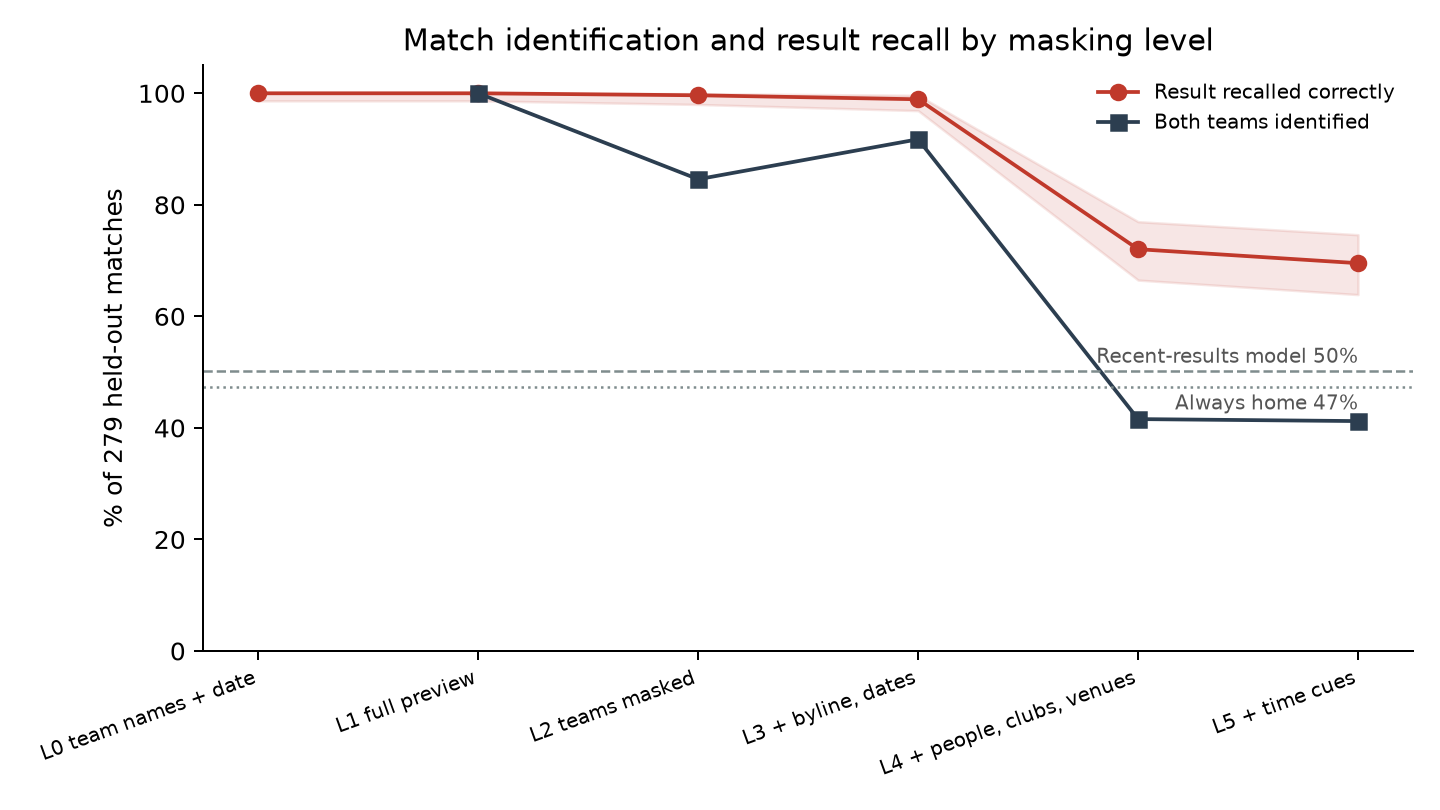
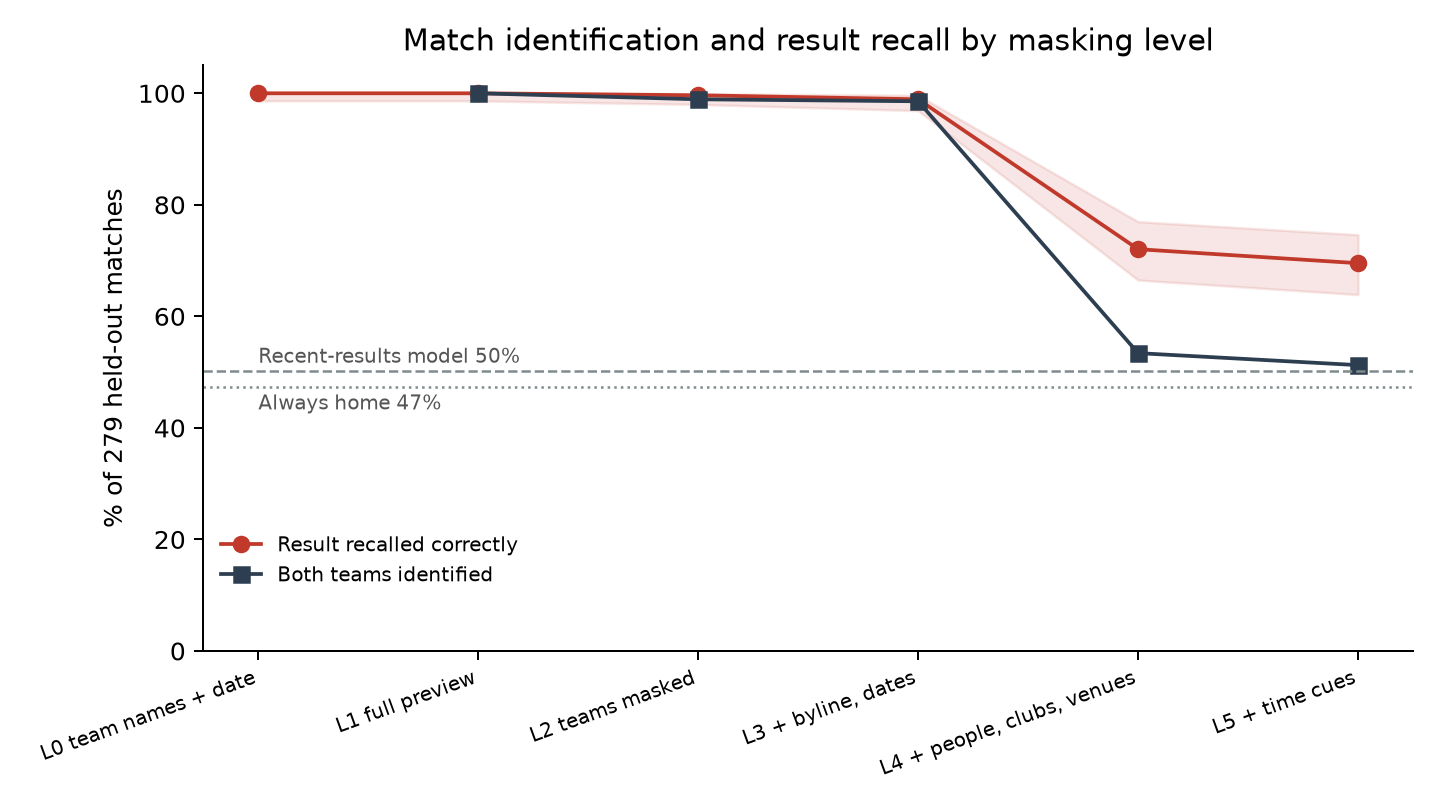
Fix club-name matching in leakage scorer; rescore saved answers

diff --git a/scripts/score_leakage.py b/scripts/score_leakage.py
@@ -41,8 +41,9 @@ LEVEL_LABELS = {
 
 
 def norm(name):
-    name = str(name).lower().replace('&', 'and')
-    name = re.sub(r'\b(fc|afc|the)\b', ' ', name)
+    name = str(name).lower().replace('&', 'and').replace('.', '')
+    # Formal names: "Arsenal Football Club", "Hull City Association Football Club", "Arsenal F.C."
+    name = re.sub(r'\b(association football club|football club|fc|afc|the)\b', ' ', name)
     return ' '.join(re.sub(r'[^a-z0-9 ]', ' ', name).split())
 
 
@@ -139,14 +140,14 @@ def main():
     ident = summary.both_teams_identified * 100
     ax.plot(x[ident.notna()], ident[ident.notna()], marker='s', color='#2c3e50', label='Both teams identified')
     ax.axhline(baseline_acc * 100, ls='--', color='#7f8c8d', lw=1)
-    ax.text(x[-1], baseline_acc * 100 + 1.5, f'Recent-results model {baseline_acc:.0%}', ha='right', fontsize=8, color='#555')
+    ax.text(x[0], baseline_acc * 100 + 1.5, f'Recent-results model {baseline_acc:.0%}', ha='left', fontsize=8, color='#555')
     ax.axhline(home_acc * 100, ls=':', color='#7f8c8d', lw=1)
-    ax.text(x[-1], home_acc * 100 - 4, f'Always home {home_acc:.0%}', ha='right', fontsize=8, color='#555')
+    ax.text(x[0], home_acc * 100 - 4, f'Always home {home_acc:.0%}', ha='left', fontsize=8, color='#555')
     ax.set_xticks(x, [LEVEL_LABELS.get(l, l) for l in summary.level], rotation=20, ha='right', fontsize=8)
     ax.set_ylim(0, 105)
     ax.set_ylabel('% of 279 held-out matches')
     ax.set_title('Match identification and result recall by masking level')
-    ax.legend(frameon=False, fontsize=8, loc='upper right')
+    ax.legend(frameon=False, fontsize=8, loc='lower left', bbox_to_anchor=(0, 0.08))
     ax.spines[['top', 'right']].set_visible(False)
     fig.tight_layout()
     fig.savefig(OUT / 'leakage_by_level.png', dpi=180)

diff --git a/reports/leakage/milestone2_results.md b/reports/leakage/milestone2_results.md
@@ -8,12 +8,12 @@ All tables use the saved output values as written. The probe asks the model to i
 
 | Level | n | Both teams identified | Season identified | Exact match identified | Result accuracy | Result accuracy 95% interval | Log loss | Result accuracy when identified | Result accuracy when not identified |
 | --- | --- | --- | --- | --- | --- | --- | --- | --- | --- |
-| L0 | 279 | — | — | — | 1.0 | [0.9864178395257275, 1.0] | — | — | — |
-| L1 | 279 | 1.0 | 1.0 | 1.0 | 1.0 | [0.9864178395257275, 1.0] | 0.02479976520637871 | 1.0 | — |
-| L2 | 279 | 0.8458781362007168 | 1.0 | 0.8458781362007168 | 0.996415770609319 | [0.9799797125550332, 0.9993670313468536] | 0.04500748982304585 | 1.0 | 0.9767441860465116 |
-| L3 | 279 | 0.9175627240143369 | 0.996415770609319 | 0.9175627240143369 | 0.989247311827957 | [0.968867981311279, 0.9963365713429273] | 0.06716569892300638 | 1.0 | 0.8695652173913043 |
-| L4 | 279 | 0.4157706093189964 | 0.5949820788530465 | 0.4121863799283154 | 0.7204301075268817 | [0.6650476975055243, 0.7698246833606567] | 0.6101909966413706 | 1.0 | 0.524390243902439 |
-| L5 | 279 | 0.4121863799283154 | 0.5591397849462365 | 0.4014336917562724 | 0.6953405017921147 | [0.638981560687777, 0.7463931508115215] | 0.6479047565076327 | 1.0 | 0.49101796407185627 |
+| L0 | 279 | — | — | — | 1.0 | [0.9864178395257276, 1.0] | — | — | — |
+| L1 | 279 | 1.0 | 1.0 | 1.0 | 1.0 | [0.9864178395257276, 1.0] | 0.0247997652063787 | 1.0 | — |
+| L2 | 279 | 0.989247311827957 | 1.0 | 0.989247311827957 | 0.996415770609319 | [0.9799797125550332, 0.9993670313468536] | 0.0450074898230458 | 1.0 | 0.6666666666666666 |
+| L3 | 279 | 0.985663082437276 | 0.996415770609319 | 0.985663082437276 | 0.989247311827957 | [0.968867981311279, 0.9963365713429272] | 0.0671656989230063 | 1.0 | 0.25 |
+| L4 | 279 | 0.5340501792114696 | 0.5949820788530465 | 0.5304659498207885 | 0.7204301075268817 | [0.6650476975055243, 0.7698246833606567] | 0.6101909966413706 | 1.0 | 0.4045801526717557 |
+| L5 | 279 | 0.5125448028673835 | 0.5591397849462365 | 0.5017921146953405 | 0.6953405017921147 | [0.638981560687777, 0.7463931508115215] | 0.6479047565076327 | 1.0 | 0.3884892086330935 |
 
 Recent-results model accuracy on the same matches: 0.5017921146953405. Always-home accuracy: 0.4731182795698925. [Source](summary.csv)
 
@@ -81,10 +81,10 @@ The audit reports the share of previews where each cue remains. Level 4 intentio
 
 The [probe manifest](probe.manifest.json) records model `gpt-6.1-sol` and CLI `codex-cli 0.169.0-alpha.11.1`. Saved answer timestamps span 2026-11-20T15:07:12.141874-05:00 through 2026-11-20T18:17:59.154767-05:00 in America/New_York. The [Level 5 extraction summary](../quality/L5/extraction_summary.json) records 1409 previews; the tagged model run used `human-validation omitted`.
 
-Earlier attempts stopped on Codex transport 503, a usage-limit response, and a 401 authentication response; the scripts resumed from saved records. A Level 5 probe batch timed out at 300 seconds and was later completed using a 600-second timeout. The model, prompt, seed, batch size, and masking remained unchanged. The final report uses the supplied scoring code and does not alter its club aliases.
+Earlier attempts stopped on Codex transport 503, a usage-limit response, and a 401 authentication response; the scripts resumed from saved records. A Level 5 probe batch timed out at 300 seconds and was later completed using a 600-second timeout. The model, prompt, seed, batch size, and masking remained unchanged. The club-name scorer was corrected as described below; the saved model answers were not changed.
 
-The supplied scorer reported 35 unmapped team guesses: Arsenal Football Club; Blackburn Rovers; Blackpool; Bolton Wanderers; Bolton Wanderers Football Club; Brentford FC; Brighton & Hove Albion Football Club; Burnley Football Club; Cardiff City Football Club; Chelsea Football Club; Crystal Palace Football Club; Everton Football Club; Fulham Football Club; Huddersfield Town Association Football Club; Hull City Association Football Club; Leicester City Football Club; Liverpool Football Club; Manchester City Football Club; Manchester United Football Club; Newcastle United Football Club; Norwich City Football Club; Queens Park Rangers Football Club; Reading; Reading Football Club; Southampton Football Club; Stoke City Football Club; Sunderland Association Football Club; Swansea City Association Football Club; Tottenham Hotspur Football Club; Watford Football Club; West Bromwich Albion Football Club; West Ham United Football Club; Wigan Athletic; Wigan Athletic Football Club; Wolverhampton Wanderers. Some full club-name variants in this list can make the measured match identification rate lower than the model’s actual identification rate.
+The first scoring run reported 35 unmapped team guesses, most of them formal names such as "Arsenal Football Club" and "Hull City Association Football Club" that the scorer did not recognise, so correct identifications were counted as wrong. The scorer was corrected on 2026-11-23 to strip "Football Club", "Association Football Club" and "F.C." before matching, and rerun on the same saved answers; no model calls were repeated. The table above uses the corrected scores. The remaining 10 unmapped guesses are clubs that were not in the 2017-18 Premier League (Blackburn Rovers, Blackpool, Bolton Wanderers, Brentford, Reading, Wigan Athletic, Wolverhampton Wanderers), so they are genuinely wrong. Result accuracy and log loss do not depend on team names and are unchanged.
 
 ## Interpretation
 
-Result accuracy and match identification both decrease as masking becomes stronger. At Level 5, result accuracy remains above the recent-results model accuracy on the same matches. The original combined logistic model has a lower log loss than its baseline, while the Level 5 combined logistic model has a higher log loss than its baseline. Both reported 95% intervals for the combined-minus-baseline log-loss difference include zero. The scorer’s unmapped names limit the precision of the match identification percentages.
+Masking team names, years, dates and bylines (Levels 2-3) barely changes anything: the model still names both teams for about 99% of matches and recalls about 99% of results. Masking people, other clubs, stadiums and places (Level 4) roughly halves identification, to 53%, and Level 5 time cues reduce it only slightly further, to 51%. Result accuracy falls to 72% and 70%, which remains well above the recent-results model (50%) on the same matches. At every level the model got the result right for every match it identified (100%); for matches it did not identify at Levels 4-5, its accuracy was 39-41%, below the recent-results model. The original combined logistic model had a slightly lower log loss than its baseline; the Level 5 combined model had a higher log loss than its baseline. Both 95% intervals for that difference include zero.
